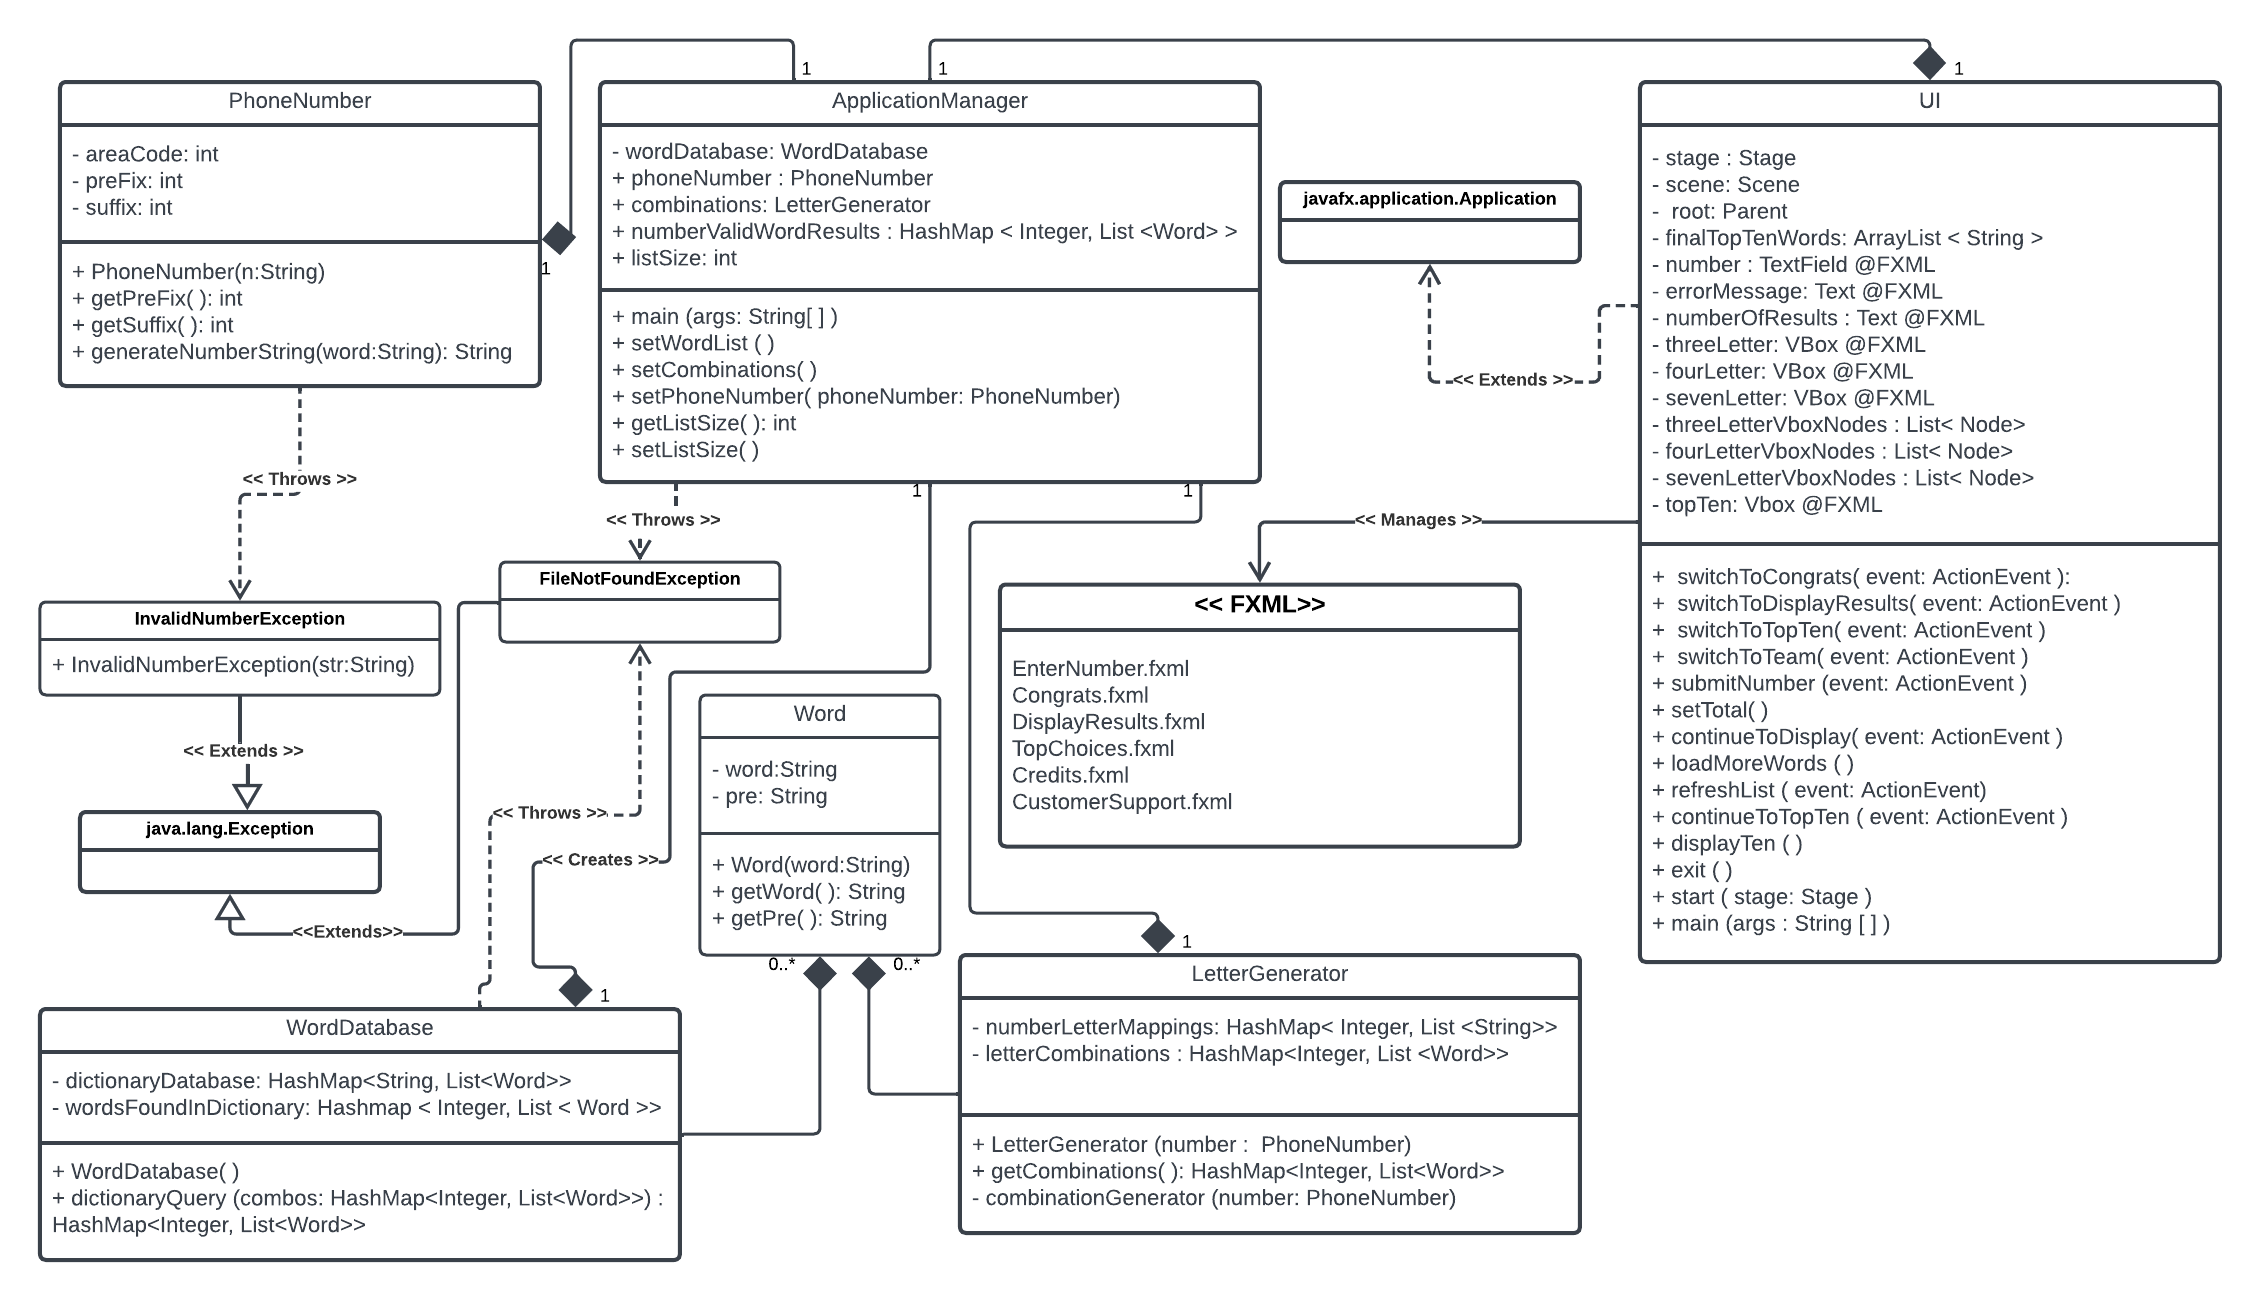
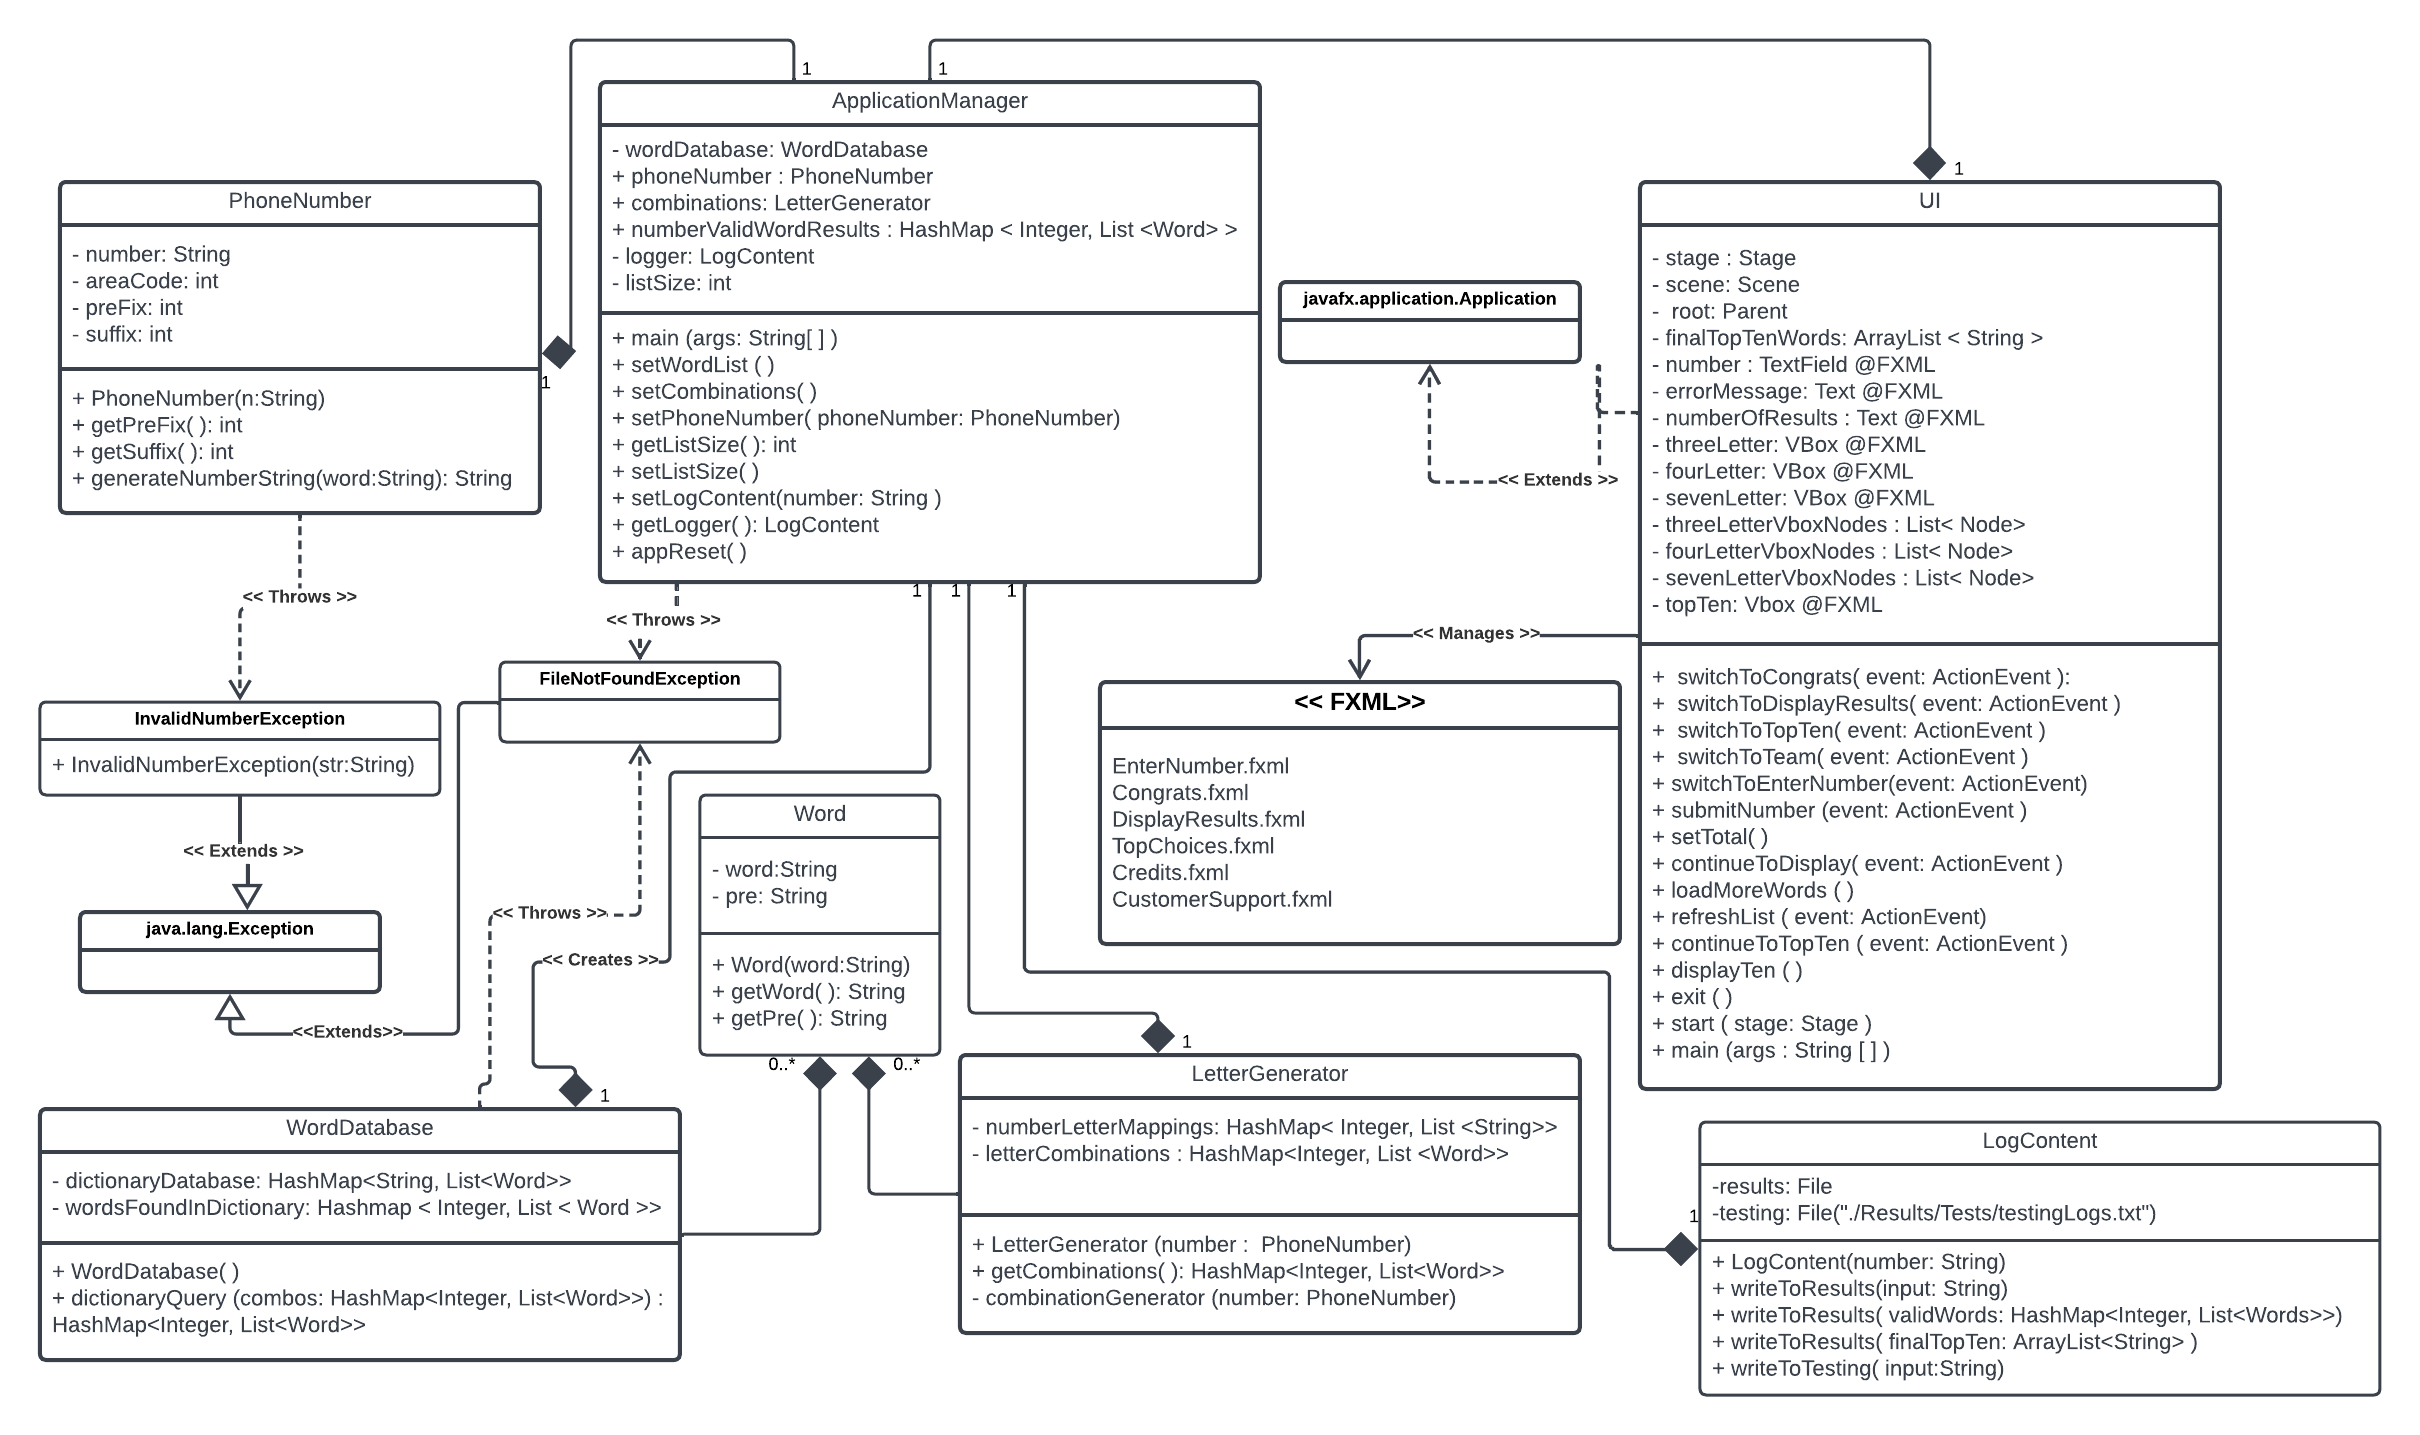
Updated Documentation these are the final diagrams. Updated ReadMe with more info Added a few words to the database Also added an example output file

Changed region(s): [[0.0, 0.0, 0.9912, 0.9846], [0.9602, 0.9538, 0.9912, 0.9846], [0.9602, 0.4, 0.9912, 0.4308]]

diff --git a/src/UI/UI.java b/src/UI/UI.java
@@ -44,7 +44,7 @@ public class UI extends Application{
     private Scene scene;
     private Parent root;
 
-    private static final ArrayList<String> finalTopTenWords = new ArrayList<>();
+    private static ArrayList<String> finalTopTenWords = new ArrayList<>();
 
     /************************************************** Switch Screen Methods ***************************************************************/
 
@@ -72,6 +72,14 @@ public class UI extends Application{
     }
     public void switchTeam(ActionEvent event)throws IOException {
         Parent root = FXMLLoader.load(Objects.requireNonNull(getClass().getResource("./Screens/Credits.fxml")));
+        stage = (Stage)((Node)event.getSource()).getScene().getWindow();
+        scene = new Scene(root);
+        stage.setScene(scene);
+        stage.show();
+    }
+    public void switchToEnterNumber(ActionEvent event)throws IOException {
+        ApplicationManager.appReset();
+        Parent root = FXMLLoader.load(Objects.requireNonNull(getClass().getResource("./Screens/EnterNumber.fxml")));
         stage = (Stage)((Node)event.getSource()).getScene().getWindow();
         scene = new Scene(root);
         stage.setScene(scene);
@@ -169,14 +177,8 @@ public class UI extends Application{
     }
 
     public void refreshList(ActionEvent event){
-
         //we are garuanteed to have words at this stage to process.
         //When this button is push it means that we have to search all the checkboxes to see which ones have been selected.
-        if((ApplicationManager.getListSize()) < 11){
-
-            continueTopTen(event);
-
-        }else{
 
             for(int i = 0; i < 10; i++){
                 //gets child checkboxes from the VBox parent
@@ -209,19 +211,30 @@ public class UI extends Application{
                 }else{
                     currentSevenLetterCheckBox.setSelected(false);
                 }
+
                 currentThreeLetterCheckBox.setText("");
                 currentFourLetterCheckBox.setText("");
                 currentSevenLetterCheckBox.setText("");
             }
 
+        if((ApplicationManager.getListSize()) < 11) {
 
+            for (Word t : ApplicationManager.numberValidWordResults.get(3)) {
+                finalTopTenWords.add(t.getWord());
+            }
+            for (Word f : ApplicationManager.numberValidWordResults.get(4)) {
+                finalTopTenWords.add(f.getWord());
+            }
+            for (Word s : ApplicationManager.numberValidWordResults.get(7)) {
+                finalTopTenWords.add(s.getWord());
+            }
+            continueTopTen(event);
+
+        }else {
             loadMoreWords();
         }
+
     }
-
-
-
-
 
     //move to next screen
     public void continueTopTen(ActionEvent event){
@@ -249,6 +262,7 @@ public class UI extends Application{
                 currentTextField.setText(ApplicationManager.phoneNumber.generateNumberString(finalTopTenWords.get(i)));
             }
         }
+        UI.finalTopTenWords.clear();
     }
 
 

diff --git a/src/Backend/WordDatabase.java b/src/Backend/WordDatabase.java
@@ -20,14 +20,6 @@ public class WordDatabase{
     //This is where we will store the words from the database
     private HashMap<String, List<Word>> dictionaryDatabase;
 
-    //This will be the list with all the valid words that can be generated from the number
-    private final HashMap<Integer, List<Word>> wordsFoundInDictionary = new HashMap<>(){{
-        put(3, new ArrayList<>());
-        put(4, new ArrayList<>());
-        put(7, new ArrayList<>());
-    }};
-
-
     //Constructor that initializes the dictionary map
     public WordDatabase() throws FileNotFoundException {
         if(ApplicationManager.wordDatabase == null) {
@@ -56,6 +48,13 @@ public class WordDatabase{
 
     //This will take the map generated from the LetterGenerator class to filter out the non-valid words
    public HashMap<Integer, List<Word>> dictionaryQuery(HashMap<Integer, List<Word>> combos){
+
+       //This will be the list with all the valid words that can be generated from the number
+       HashMap<Integer, List<Word>> wordsFoundInDictionary = new HashMap<>() {{
+           put(3, new ArrayList<>());
+           put(4, new ArrayList<>());
+           put(7, new ArrayList<>());
+       }};
 
        for (Word letterCombination:combos.get(3)) {
            String currentWordPrefix = letterCombination.getPre();

diff --git a/src/Backend/LetterGenerator.java b/src/Backend/LetterGenerator.java
@@ -26,12 +26,7 @@ public class LetterGenerator {
         put(9, Arrays.asList("w", "x", "y", "z"));
     }};
 
-    private final HashMap<Integer, List<Word>> letterCombinations = new HashMap<>(){{
-        put(3, new ArrayList<>());
-        put(4, new ArrayList<>());
-        put(7, new ArrayList<>());
-    }};
-
+    private  HashMap<Integer, List<Word>> letterCombinations;
 
     public LetterGenerator(PhoneNumber number) {
         combinationGenerator(number);
@@ -42,6 +37,14 @@ public class LetterGenerator {
     }
 
     private void combinationGenerator(PhoneNumber number) {
+
+        //will reset list if it is not empty
+        letterCombinations = new HashMap<>(){{
+            put(3, new ArrayList<>());
+            put(4, new ArrayList<>());
+            put(7, new ArrayList<>());
+        }};
+
         //suffix Combinations
         int numberPrefix = number.getPreFix();
         int numberSuffix = number.getSuffix();
@@ -71,7 +74,10 @@ public class LetterGenerator {
         }
 
     }
+
 }
+
+
 //if the number has a 0 or 1 then we know it won't generate a word
 //So we are gonna check for that first
 

diff --git a/src/Backend/LogContent.java b/src/Backend/LogContent.java
@@ -53,7 +53,7 @@ public class LogContent {
             FileWriter logToResults = new FileWriter(results, true);
             StringBuilder input = new StringBuilder();
             input.append("""
-                    ----------------------------Valid Words for your number------------------------------
+                    ----------------------------All Words Found for Your Number------------------------------
 
                     """);
             int counter = 1;
@@ -99,7 +99,7 @@ public class LogContent {
             StringBuilder input = new StringBuilder();
             int counter = 1;
             input.append("""
-                    -------------------------------Your favorite Words------------------------------------
+                    -------------------------------Your Favorite Words------------------------------------
 
                     """);
             for (String phone:finalTopTen) {

diff --git a/src/Backend/ApplicationManager.java b/src/Backend/ApplicationManager.java
@@ -1,4 +1,5 @@
 package Backend;
+
 import UI.UI;
 import javafx.application.Application;
 
@@ -30,7 +31,7 @@ public class ApplicationManager {
 
     private static LogContent logger;
 
-    public static void main(String[] args) throws IOException {
+    public static void main(String[] args) {
         //Launches the Application
         Application.launch(UI.class, args);
     }
@@ -82,6 +83,11 @@ public class ApplicationManager {
 
     public static LogContent getLogger() {
         return logger;
+    }
+
+    public static void appReset(){
+        ApplicationManager.phoneNumber = null;
+        listSize = 0;
     }
 }
 

diff --git a/README.md b/README.md
@@ -43,6 +43,10 @@ To get started with our project NumberPhrase, please follow these steps:
 
 - Run the application using your preferred Java IDE or through the command line
 - Follow the menu-driven interface to enter a phone number and generate a list of possible English words to represent the number
+- If you get more than 10 results, you will be prompted to select your favorite and narrow down your top choices. But don't worry all your results will be saved so you can go back later!
+- After each number you submit your results should be logged in a unique text file in the Results folder along with a date and timestamp
+- -For an example output you can find results for entering the number 4093392255 under the Results folder in the Number subFolder
+- Note as we are still expanding our database, your number may not have any words. See Project report for more information on limitations. 
 
 #### Documentation
 
